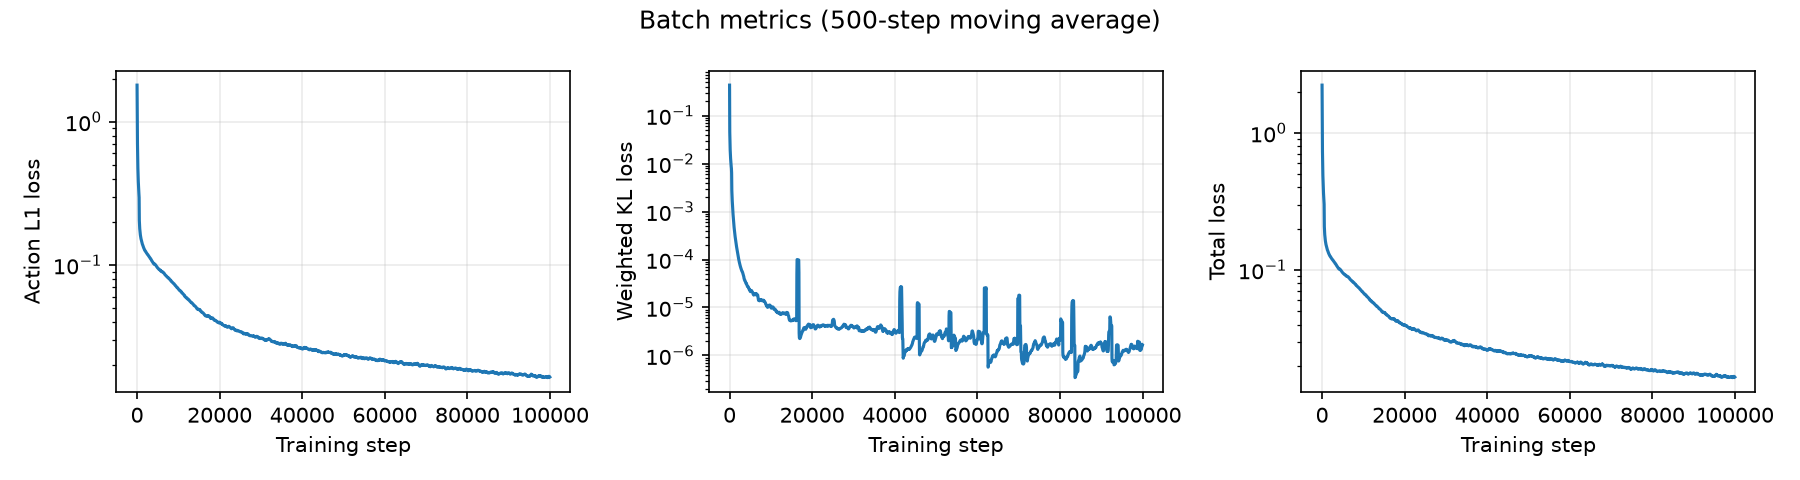
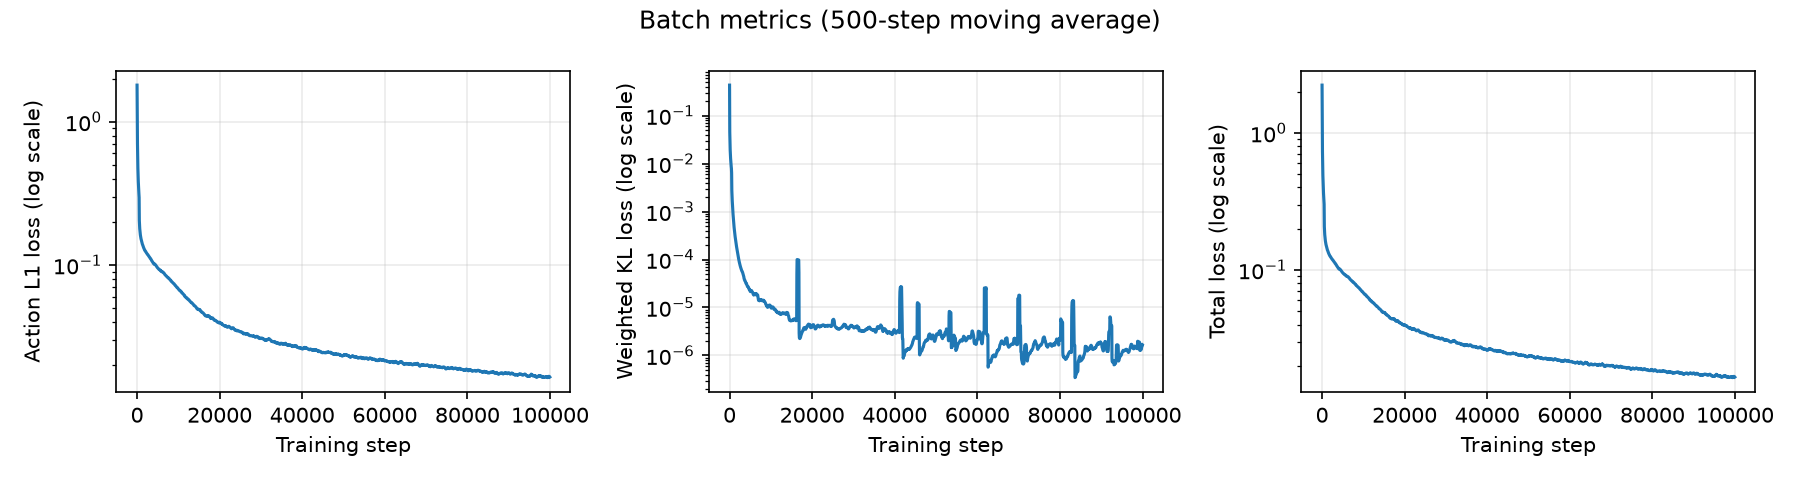
docs: label log-scale training curves in plots

diff --git a/scripts/utils/plot_training_run.py b/scripts/utils/plot_training_run.py
@@ -3,8 +3,8 @@
 Produces one figure per metric group, with a single panel per metric, so the
 training dynamics of a run can be inspected at a glance:
 
-- ``batch_metrics_horizontal.png``: action, weighted KL, and total losses (smoothed)
-- ``denorm_l1_horizontal.png``: denormalized joint and gripper L1 errors (smoothed)
+- ``batch_metrics_horizontal.png``: action, weighted KL, and total losses (smoothed, log scale)
+- ``denorm_l1_horizontal.png``: denormalized joint and gripper L1 errors (smoothed, log scale)
 - ``eval_horizontal.png``: episode horizon and success rate
 - ``latent_log_scale.png``: latent ``mu`` norm and ``sigma`` mean (log scale)
 
@@ -79,7 +79,7 @@ def smooth_series(*, values: np.ndarray, window: int = SMOOTHING_WINDOW) -> np.n
 
 
 def style_axis(*, axis: Axes, label: str, tag: str, log_scale: bool) -> None:
-    axis.set_ylabel(label)
+    axis.set_ylabel(f"{label} (log scale)" if log_scale else label)
     axis.grid(alpha=0.25)
     if log_scale:
         axis.set_yscale("log")

diff --git a/README.md b/README.md
@@ -14,17 +14,17 @@ Evaluation episode horizon and success rate:
 
 <img src="assets/training-run/eval_horizontal.png" alt="Evaluation episode horizon and success rate over training steps">
 
-Batch metrics (action, weighted KL, and total losses):
+Batch metrics (action, weighted KL, and total losses, log scale):
 
-<img src="assets/training-run/batch_metrics_horizontal.png" alt="Smoothed action, weighted KL, and total losses over training steps">
+<img src="assets/training-run/batch_metrics_horizontal.png" alt="Smoothed action, weighted KL, and total losses over training steps (log scale)">
 
-Denormalized joint and gripper action errors:
+Denormalized joint and gripper action errors (log scale):
 
-<img src="assets/training-run/denorm_l1_horizontal.png" alt="Smoothed denormalized joint and gripper L1 errors over training steps">
+<img src="assets/training-run/denorm_l1_horizontal.png" alt="Smoothed denormalized joint and gripper L1 errors over training steps (log scale)">
 
-Latent statistics:
+Latent statistics (log scale):
 
-<img src="assets/training-run/latent_log_scale.png" alt="Log-scale latent mu norm and sigma mean over training steps">
+<img src="assets/training-run/latent_log_scale.png" alt="Latent mu norm and sigma mean over training steps (log scale)">
 
 <details>
 <summary>Run details</summary>
